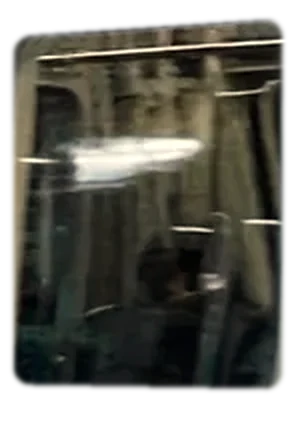
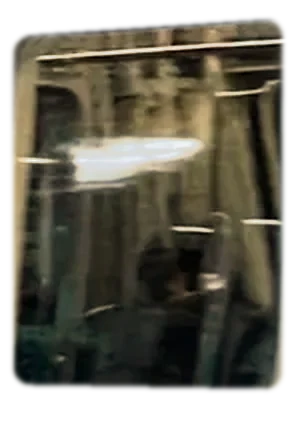
Live test page: window glass varies more, reflection kept the same on every window
The five glass variations now change the interior light clearly (bright/dim, warm/cool) instead of slightly.
The reflection of the platform lights on the glass is kept as photographed, and the mirrored variations are
dropped, so the reflection looks the same on every window. Remade for the standard, TradingView and Kraken
trains; PIC_V bumped so phones fetch them.

Claude-Session: https://claude.ai/code/session_01TN5EnHQom79cPfxJxnZ3Du

diff --git a/station-test/index.html b/station-test/index.html
@@ -326,7 +326,7 @@ body.tone-gray #grain,body.tone-graykeep #grain{opacity:.04}
 <body>
 <div id="view">
   <div id="stage">
-    <img id="bg" src="platform_w_fw.webp?p=2" width="2600" height="3840" alt="Empty subway platform with a large wall billboard">
+    <img id="bg" src="platform_w_fw.webp?p=3" width="2600" height="3840" alt="Empty subway platform with a large wall billboard">
     <img id="hi" alt="">
     <canvas id="floorAd"></canvas>
     <div id="flick"></div>
@@ -456,7 +456,7 @@ const SITE_AD=FORCE_AD||'tv';                     // sponsor of the station: loa
 const BOARD_ADS=['tv'];                 // shown on the board before each train, taking turns
 const FLOOR={ad:'tv',base:'_fw'};       // the floor strip: sponsor and tile pictures (platform_w*_fw.webp)
 /* bump when any platform, train or sponsor picture is remade, so phones fetch the new one instead of a cached copy */
-const PIC_V='?p=2';
+const PIC_V='?p=3';
 const adImg=(k,f)=>{const a=ADS[k];a.img=a.img||{};if(!a.img[f]){const i=new Image();i.src=a.dir+a[f]+PIC_V;a.img[f]=i}return a.img[f]};
 const gaEv=(n,o)=>{try{window.gtag&&gtag('event',n,o)}catch(e){}};
 let vMode='inline';const domOn=()=>!document.hidden&&vMode==='inline';   // full screen or picture-in-picture: the page itself rests

diff --git a/scripts/live-train-glass.py b/scripts/live-train-glass.py
@@ -5,7 +5,8 @@
     python3 scripts/live-train-glass.py --dir station-test/trains/tv --src w0 --scale 2
 
 Writes glass1..glassN.webp (+ _b motion-blur twins): only the glass of a window section, cut out with soft edges,
-with the interior lit a little differently (brighter / warmer / cooler / dimmer, or the car interior mirrored).
+with the interior lit differently (brighter / warmer / cooler / dimmer). The reflection of the platform lights on the
+glass is kept exactly as photographed, so it is the same on every window.
 The page lays one of them over a window section, chosen at random per window for each train.
 Needs: numpy scipy pillow
 """
@@ -24,12 +25,12 @@ X0 = 345.0; VPx, VPy = -1722.0, 356.0
 GX0, GX1, GT0, GT1, GR = 31.0, 165.0, -0.0655, 0.0172, 8.0     # inner glass (1x picture px, t), corner radius
 MX0, MX1 = 42.0, 154.0                                          # mirrored part: the interior, not the lit frame edges
 BOX = (24, 200, 172, 412)                                        # crop written to the files (1x px) - the page uses it
-# subtle variations: (gain, red, green, blue, mirror)
-VARS = [(1.10, 1.05, 1.00, 0.92, False),   # brighter, warmer
-        (0.97, 1.00, 1.00, 1.00, True),    # interior mirrored
-        (0.88, 0.96, 1.00, 1.06, False),   # dimmer, cooler
-        (1.05, 1.04, 1.00, 0.95, True),    # mirrored, a bit warmer
-        (0.74, 1.00, 1.00, 1.00, False)]   # a dim one
+# variations of the interior light: (gain, red, green, blue, mirror)
+VARS = [(1.30, 1.10, 1.00, 0.85, False),   # bright, warm
+        (0.80, 1.00, 1.00, 1.00, False),   # a little dim
+        (0.45, 0.90, 1.00, 1.15, False),   # dim, cool: an almost unlit car
+        (0.65, 1.08, 1.00, 0.90, False),   # dim, warm
+        (1.12, 0.94, 1.00, 1.08, False)]   # bright, cool
 
 im = np.asarray(Image.open(os.path.join(A.dir, A.src+'.webp')).convert('RGBA')).astype(float)
 bx0, by0, bx1, by1 = (v*SC for v in BOX)
@@ -64,5 +65,8 @@ for i, (gain, r, g, b, mirror) in enumerate(VARS, 1):
     else:
         src = sample(px, py)
     out = src*gain*np.array([r, g, b])
+    # the bright reflection of the platform lights is on the glass, not in the car: keep it as photographed
+    keep = np.clip((src @ [0.299, 0.587, 0.114] - 150)/70, 0, 1)[..., None]
+    out = out*(1-keep) + src*keep
     save('glass%d' % i, np.dstack([out, mask*255]))
 print('glass variations:', len(VARS), 'box', BOX, '->', A.dir)
